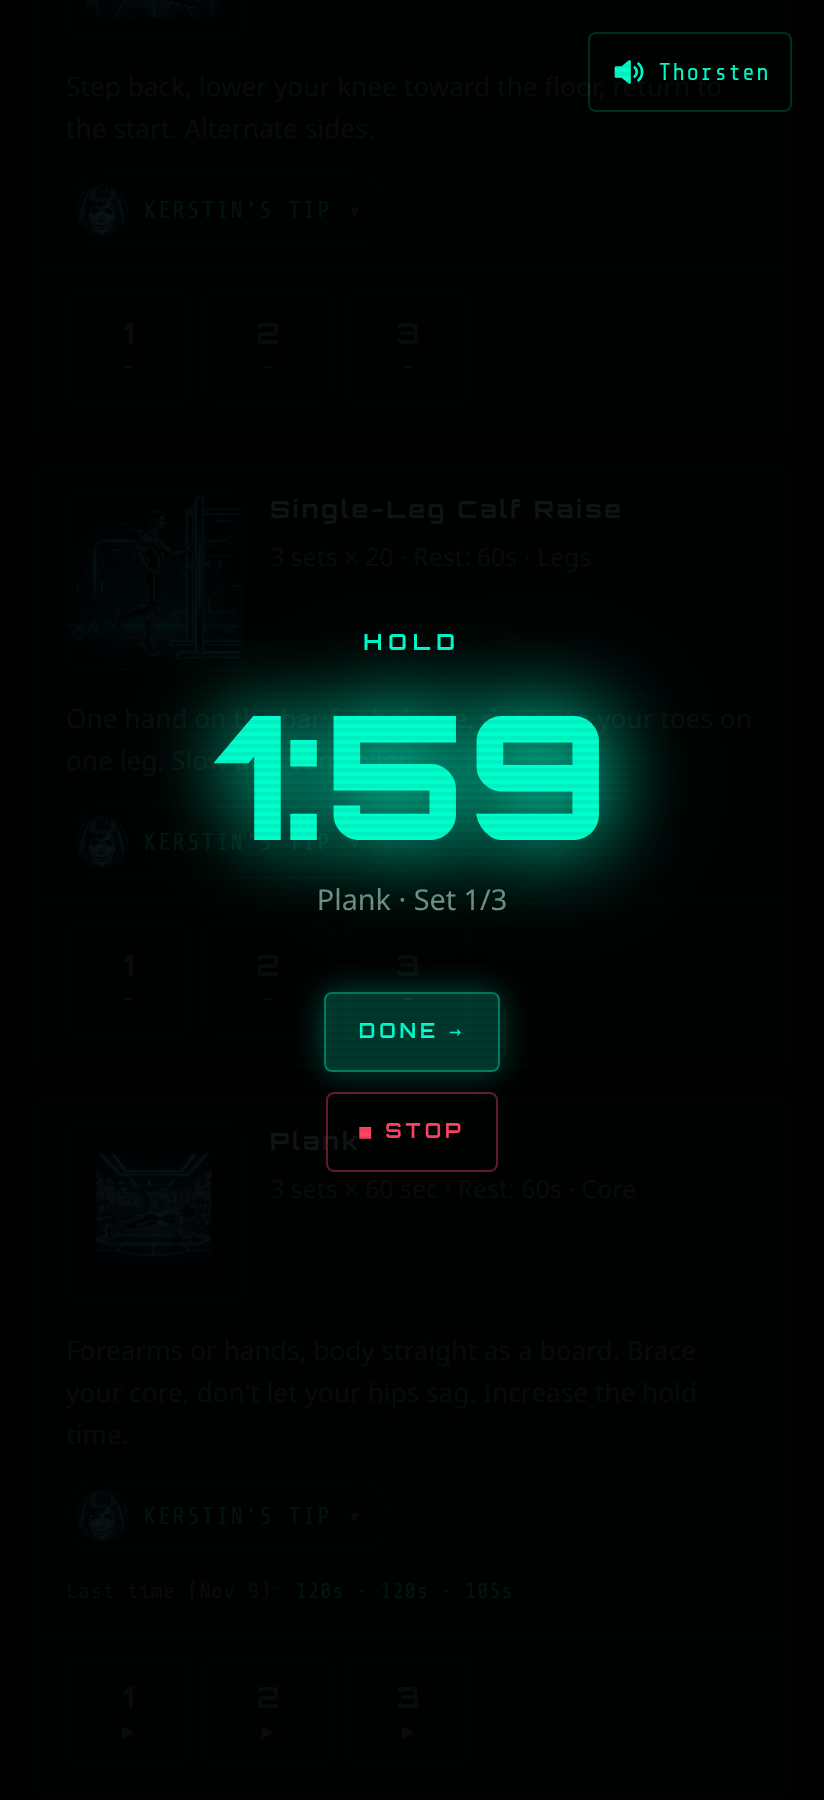
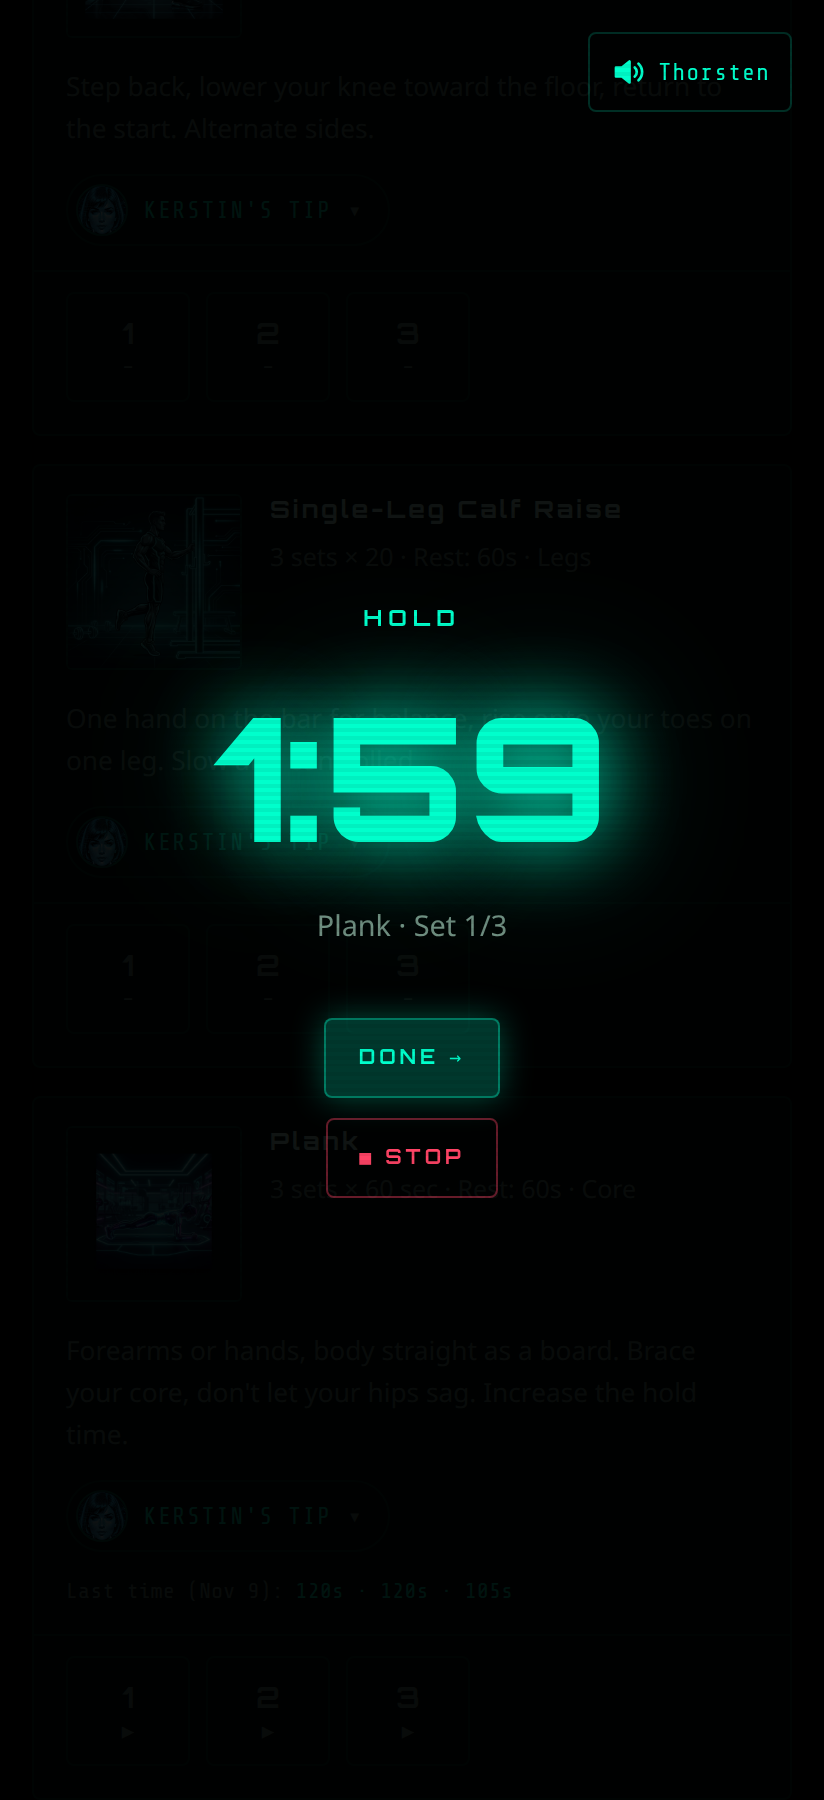
v2.12.0: Funde aus Release-Audit Runde 2 behoben (Timer-Layout)
- R2-1: Übungszeile im Timer mit zwei Zeilen Platz (Aufwärmen/Dehnen), die Knöpfe
  stehen über alle 26 Phasen des Dehn-Blocks fest, auch bei 320 px und großer Schrift.
- R2-2: Countdown „1:00“ so hoch wie „5“ (Plank: Vorlauf → Halten ohne Sprung).
- R2-3: offene Tastatur ohne Anleitung passt wieder ganz ins Fenster (wie v2.11).
- R2-4: neuer Timer beginnt oben, in der Kette bleibt der Scrollstand.
- R2-6: Mitte ohne „safe center“ (ältere WebView schnitt oben ab).
E2E 359 grün, neue Prüfungen gegen 0f6dbb7 rot.

Claude-Session: https://claude.ai/code/session_01SmuTmodTercYwW3etzWUsy

diff --git a/public/style.css b/public/style.css
@@ -493,14 +493,18 @@ input:-webkit-autofill, input:-webkit-autofill:hover, input:-webkit-autofill:foc
   z-index: 200;
   flex-direction: column;
   align-items: center;
-  justify-content: center;
+  justify-content: flex-start;
   text-align: center;
   /* Release-Audit v2.12 b2/c2: niedriges Fenster (Tastatur, Querformat) oder große Systemschrift — der Inhalt beginnt unter den
      Ecken-Knöpfen und das Fenster scrollt, statt „■ Stopp“ unten abzuschneiden. Passt alles, bleibt er mittig wie vorher
-     (Rand oben und unten gleich). Ohne „safe“ (alte WebView) gilt die Zeile davor. */
-  box-sizing: border-box; padding: 64px 0; overflow-y: auto;
-  justify-content: safe center;
+     (Rand oben und unten gleich). */
+  box-sizing: border-box; overflow-y: auto;
+  padding: calc(64px + env(safe-area-inset-top, 0px)) 0 calc(64px + env(safe-area-inset-bottom, 0px));
 }
+/* Mitte ohne „justify-content: safe center“ (R2-6: WebView vor 115 schnitt den Inhalt oben ab): zwei leere Flex-Elemente nehmen den freien
+   Platz je zur Hälfte; reicht er nicht, fallen ihre auto-Ränder auf 0 und der Inhalt beginnt oben unter den Ecken-Knöpfen. */
+#timer-overlay::before { content: ''; margin-top: auto; }
+#timer-overlay::after { content: ''; margin-bottom: auto; }
 #timer-overlay.open { display: flex; }
 #timer-label {
   font-family: var(--font-h);
@@ -520,12 +524,16 @@ input:-webkit-autofill, input:-webkit-autofill:hover, input:-webkit-autofill:foc
   margin-bottom: 10px;
 }
 #timer-count.urgent { color: var(--red); text-shadow: 0 0 40px var(--red); }
-/* v2.9: m:ss ab einer Minute — „10:00“ passt sonst bei 360 px nicht in die Breite */
-#timer-count.long { font-size: min(7rem, 21vw); }
+/* v2.9: m:ss ab einer Minute — „10:00“ passt sonst bei 360 px nicht in die Breite. Release-Audit v2.12 R2-2: gleiche Zeilenhöhe wie „5“,
+   sonst sprangen die Knöpfe beim Wechsel Vorlauf → Halten (Plank 60 s) und ein später Tipp auf „Los →“ traf „■ Stopp“. */
+#timer-count.long { font-size: min(7rem, 21vw); line-height: 7rem; }
 /* Vorlauf „Bereit machen“ (Halteübungen) in Gelb, damit er nicht mit dem Halten verwechselt wird */
 #timer-overlay.prep #timer-label { color: var(--yellow); }
 #timer-overlay.prep #timer-count:not(.urgent) { color: var(--yellow); text-shadow: 0 0 40px var(--yellow), 0 0 80px rgba(255,204,68,0.3); }
 #timer-exercise { font-size: 0.9rem; color: var(--muted); margin-bottom: 36px; font-family: var(--font-r); }
+/* Release-Audit v2.12 R2-1: Bei Aufwärmen/Dehnen bricht „Übung · 6/7 · Seite 1/2“ je nach Phase in eine zweite Zeile um — zwei Zeilen
+   Platz, damit „Fertig →“/„■ Stopp“ zwischen den Phasen stehen bleiben. */
+#timer-img:not(.hidden) ~ #timer-exercise { line-height: 1.4; min-height: 2.8em; display: flex; align-items: center; justify-content: center; }
 /* Bild der Übung (v2.11, nur Aufwärmen/Dehnen): im Wechsel die kommende Übung, damit man schon in Position geht.
    Auf niedrigen Displays kleiner, Countdown und Knöpfe bleiben ganz sichtbar (geprüft bei 360×640). */
 #timer-img {
@@ -534,7 +542,15 @@ input:-webkit-autofill, input:-webkit-autofill:hover, input:-webkit-autofill:foc
 }
 #timer-overlay.prep #timer-img { border-color: rgba(255,204,68,0.45); box-shadow: 0 0 18px rgba(255,204,68,0.12); }
 @media (max-height: 720px) { #timer-img { width: min(34vw, 150px); margin-bottom: 12px; } }
-@media (max-height: 480px) { #timer-img { width: min(26vw, 110px); margin-bottom: 8px; } }   /* R2c-7: Timer passt auch bei offener Tastatur */
+/* R2c-7 / Release-Audit v2.12 R2-3: Timer passt auch bei offener Tastatur (412×420) wieder ganz ins Fenster, unten nur kleiner Rand */
+@media (max-height: 480px) {
+  #timer-overlay { padding-bottom: calc(16px + env(safe-area-inset-bottom, 0px)); }
+  #timer-img { width: min(22vw, 80px); margin-bottom: 8px; }
+  #timer-count { font-size: 4rem; }
+  #timer-count.long { font-size: min(4rem, 17vw); line-height: 4rem; }
+  #timer-label { margin-bottom: 8px; }
+  #timer-exercise { margin-bottom: 20px; }
+}
 #timer-skip { margin-top: 0; }
 
 /* ── Ansage-Stimme (v2.10): Umschalter Kerstin → Thorsten → Aus ─────────────── */
@@ -584,17 +600,18 @@ input:-webkit-autofill, input:-webkit-autofill:hover, input:-webkit-autofill:foc
   #timer-overlay.howto-on #timer-img { width: min(34vw, 130px); margin-bottom: 10px; }
   #timer-overlay.howto-on #timer-label { margin-bottom: 8px; }
   #timer-overlay.howto-on #timer-count { font-size: 5rem; }
-  #timer-overlay.howto-on #timer-count.long { font-size: min(5rem, 18vw); }
+  #timer-overlay.howto-on #timer-count.long { font-size: min(5rem, 18vw); line-height: 5rem; }
 }
 @media (max-height: 640px) {
   #timer-overlay.howto-on #timer-img { width: min(30vw, 116px); margin-bottom: 8px; }
-  #timer-overlay.howto-on #timer-count, #timer-overlay.howto-on #timer-count.long { font-size: 4rem; }   /* „1:30“ wie „9“: keine Verschiebung */
+  #timer-overlay.howto-on #timer-count, #timer-overlay.howto-on #timer-count.long { font-size: 4rem; line-height: 4rem; }   /* „1:30“ wie „9“ */
   #timer-overlay.howto-on #timer-howto { font-size: 0.8rem; line-height: 1.4; padding: 8px 10px; margin-bottom: 16px; height: calc(8.4em + 18px); }
 }
 @media (max-height: 480px) {   /* b2: Tastatur offen / Querformat — die 640er-Regel machte das Bild hier größer als ohne Text */
   #timer-overlay.howto-on #timer-img { width: min(22vw, 80px); margin-bottom: 6px; }
   #timer-overlay.howto-on #timer-label { margin-bottom: 4px; }
-  #timer-overlay.howto-on #timer-count, #timer-overlay.howto-on #timer-count.long { font-size: 3rem; }
+  #timer-overlay.howto-on #timer-count, #timer-overlay.howto-on #timer-count.long { font-size: 3rem; line-height: 3rem; }
+  #timer-overlay.howto-on #timer-howto { margin-top: -12px; }   /* Abstand zur Übungszeile wie sonst (deren Rand ist hier 20 statt 36 px) */
 }
 
 /* ── Progress Charts ─────────────────────────────────────────────────────────── */

diff --git a/public/app.js b/public/app.js
@@ -1504,6 +1504,7 @@ document.getElementById('btn-done-ok').addEventListener('click', e => {
 // ── TIMER (Pause + Intervall-Arbeit) ──────────────────────────────────────────
 let timerInterval = null;
 let timerState = null;   // { kind: 'rest'|'work'|'prep', chain, up, start, end, seconds, onDone }
+let timerScrollReset = false;   // Release-Audit v2.12 R2-4: nächster Timer beginnt oben (closeTimerOverlay setzt es, wenn keine Kette folgt)
 const TIMER_LABEL = { rest: 'timer.label', work: 'timer.work', prep: 'timer.prep' };
 const TIMER_SKIP  = { rest: 'timer.skip',  work: 'timer.done', prep: 'timer.go' };
 // Ansagen (v2.10, voice.js): jede Phase sagt sich beim Start an; opts.cue überschreibt (z.B. 'last', 'hold'), null = still
@@ -1554,6 +1555,7 @@ function startTimer(seconds, opts = {}) {
   count.classList.remove('urgent');
   timerOpenedAt = performance.now();   // I1–I5: echte Tipps auf Überspringen/Stopp erst nach DLG_ARM_MS
   overlay.classList.add('open');
+  if (timerScrollReset) { overlay.scrollTop = 0; timerScrollReset = false; }   // R2-4: erst nach 'open' (ohne Box wirkt scrollTop nicht)
   announce(opts.cue !== undefined ? opts.cue : TIMER_CUE[kind]);
 
   const urgentAt = kind === 'rest' ? 5 : 3;
@@ -1586,7 +1588,11 @@ function closeTimerOverlay() {
   const ov = document.getElementById('timer-overlay');
   // Release-Audit v2.11 c1 (MITTEL): Nachlauf-Sperre auch für den Timer — ein Doppeltipp auf „■ Stopp“ traf darunter „✓ Beenden & speichern“
   // (das Bild im Timer schob die Knöpfe auf dessen Höhe) und schloss die Einheit vorzeitig ab
-  if (ov.classList.contains('open')) overlayClosedAt = performance.now();
+  if (ov.classList.contains('open')) {
+    overlayClosedAt = performance.now();
+    // Release-Audit v2.12 R2-4: bleibt das Fenster zu (keine Kette — die öffnet im selben Durchlauf wieder), beginnt der nächste Timer oben
+    setTimeout(() => { if (!ov.classList.contains('open')) timerScrollReset = true; }, 0);
+  }
   ov.classList.remove('open', 'work', 'prep', 'chain');
 }
 // Regulär abgelaufen (Beep + Vibration) oder per Taste beendet (skipped) → onDone
